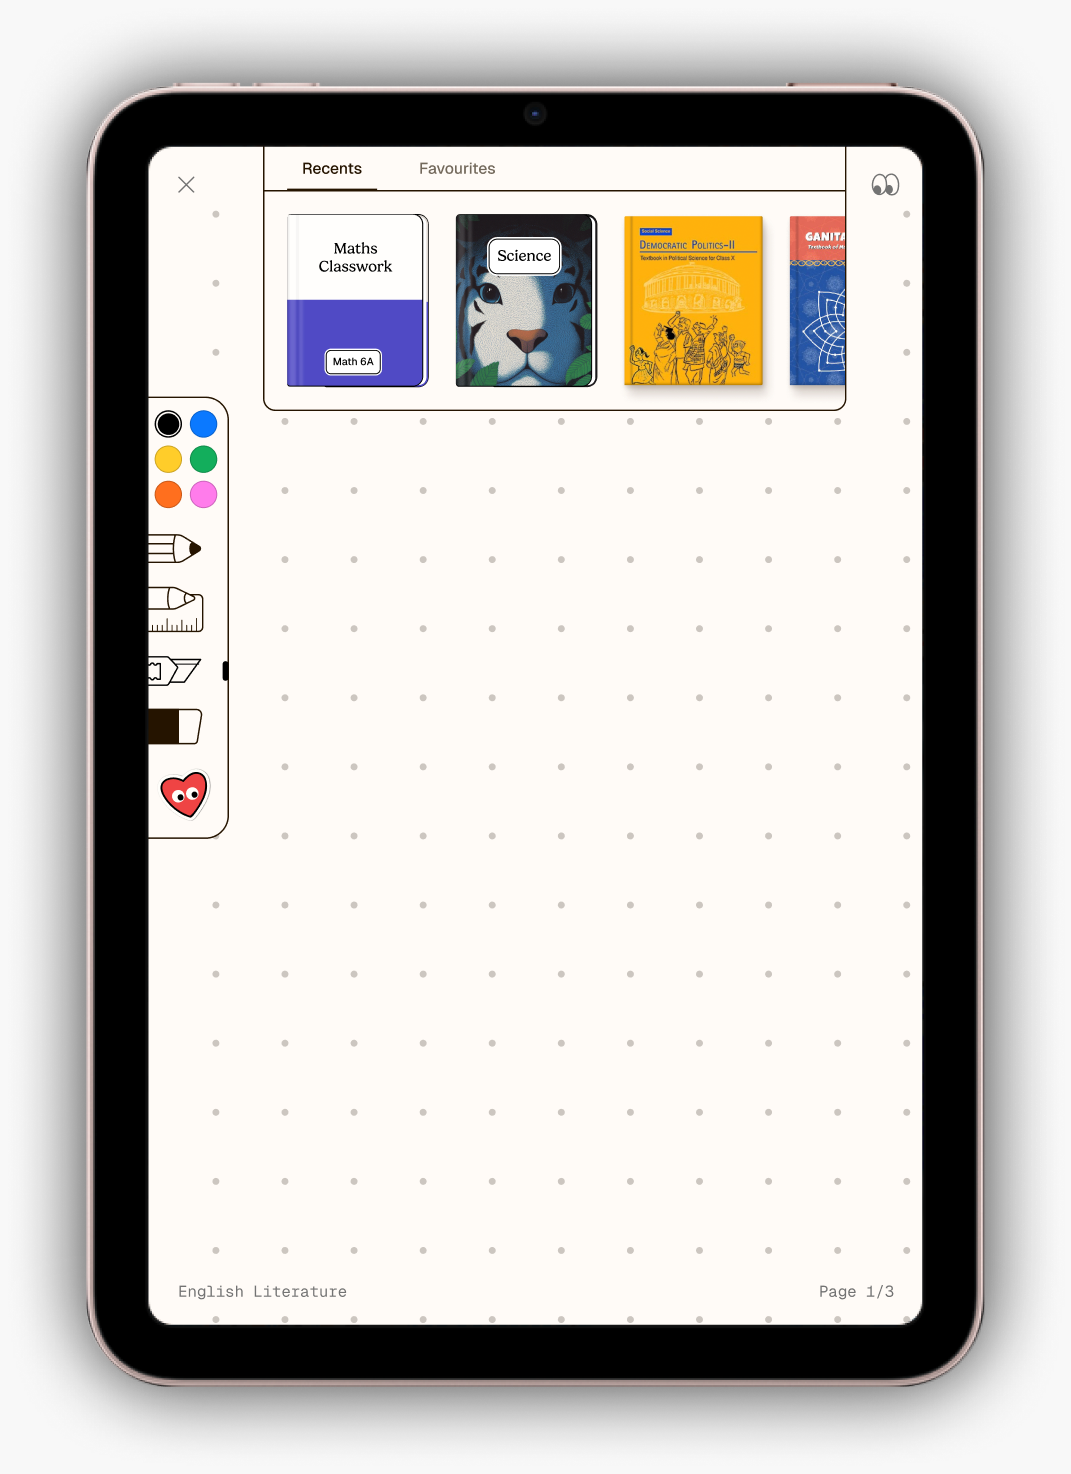
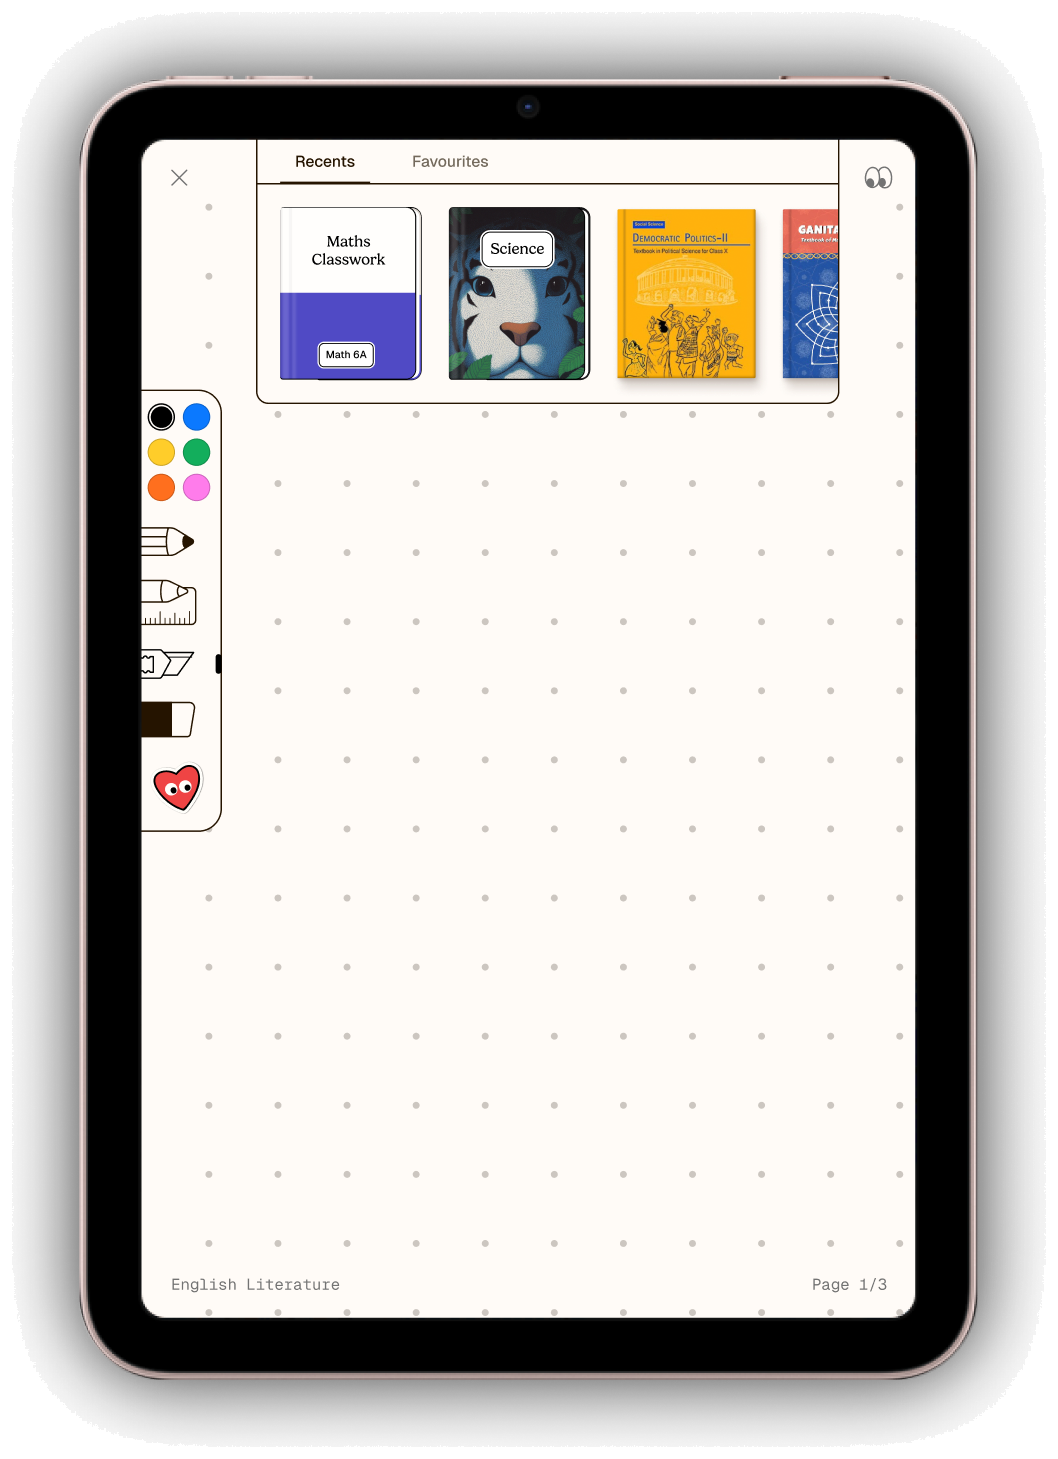
Merge exploration tabs and content into one bordered module
Wraps the iteration tabs and design/copy panel in a single container,
strips the flat grey canvas baked into the exported tablet mockups so
only the device and its shadow remain, vertically centers the Idea/Why
reasoning against the tablet, and adds an "Idea 1" eyebrow above the
entry-point question.

Changed region(s): [[0.0624, 0.0308, 0.9357, 0.9561]]

diff --git a/app/work/superrbook/page.tsx b/app/work/superrbook/page.tsx
@@ -376,8 +376,11 @@ export default function SuperrbookCaseStudy() {
 
               {/* Part 1 — Finding the right entry point */}
               <div>
-                <p className="text-[16px] font-medium mb-1" style={{ color: "var(--foreground)" }}>
+                <p className="text-[16px] font-medium mb-3" style={{ color: "var(--foreground)" }}>
                   Finding the right entry point
+                </p>
+                <p className="text-[13px] font-medium tracking-[0.06em] uppercase mb-1" style={{ color: "var(--muted)" }}>
+                  Idea 1
                 </p>
                 <p className="text-[15px] leading-relaxed mb-6" style={{ color: "var(--muted)" }}>
                   How should students open the switcher?
@@ -388,6 +391,8 @@ export default function SuperrbookCaseStudy() {
                     {
                       tabLabel: "Iteration 1",
                       image: "/context-switching-iteration-1.png",
+                      imageWidth: 1058,
+                      imageHeight: 1459,
                       alt: "Iteration 1: single pull-down swipe from top, shown on iPad",
                       title: "Single Pull down swipe from top",
                       idea: "Swipe down from the top edge to open the resource switcher.",
@@ -399,6 +404,8 @@ export default function SuperrbookCaseStudy() {
                     {
                       tabLabel: "Iteration 2",
                       image: "/context-switching-iteration-2.png",
+                      imageWidth: 1058,
+                      imageHeight: 1459,
                       alt: "Iteration 2: toolbar action, shown on iPad",
                       title: "Toolbar Action",
                       idea: "Used a dedicated switcher button in the toolbar.",
@@ -410,6 +417,8 @@ export default function SuperrbookCaseStudy() {
                     {
                       tabLabel: "Iteration 3",
                       image: "/context-switching-iteration-3.png",
+                      imageWidth: 1056,
+                      imageHeight: 1459,
                       alt: "Iteration 3: handle and pull gesture, shown on iPad",
                       title: "Handle + Pull Gesture",
                       idea: "Reveal the switcher by pulling a handle from the top edge.",

diff --git a/app/components/ExplorationTabs.tsx b/app/components/ExplorationTabs.tsx
@@ -6,6 +6,8 @@ import Image from "next/image";
 export interface ExplorationIteration {
   tabLabel: string;
   image: string;
+  imageWidth: number;
+  imageHeight: number;
   alt: string;
   title: string;
   idea: string;
@@ -24,11 +26,14 @@ export default function ExplorationTabs({
   const current = iterations[active];
 
   return (
-    <div>
+    <div
+      className="rounded-2xl p-3 md:p-4"
+      style={{ background: "var(--background)", border: "1px solid var(--border)" }}
+    >
       {/* Tab bar */}
       <div
         className="inline-flex w-full rounded-full p-1 mb-6"
-        style={{ background: "var(--hover-bg)", border: "1px solid var(--border)" }}
+        style={{ background: "var(--hover-bg)" }}
         role="tablist"
         aria-label="Exploration iterations"
       >
@@ -51,21 +56,16 @@ export default function ExplorationTabs({
       </div>
 
       {/* Content */}
-      <div
-        className="rounded-2xl p-6 md:p-8"
-        style={{ background: "var(--background)", border: "1px solid var(--border)" }}
-      >
-        <div className="grid grid-cols-1 md:grid-cols-[380px_1fr] gap-10 items-start">
-          <div className="rounded-2xl overflow-hidden" style={{ background: "var(--hover-bg)" }}>
-            <Image
-              src={current.image}
-              alt={current.alt}
-              width={1071}
-              height={1474}
-              quality={100}
-              className="w-full h-auto block"
-            />
-          </div>
+      <div className="px-2 pb-2 md:px-4 md:pb-4">
+        <div className="grid grid-cols-1 md:grid-cols-[380px_1fr] gap-10 items-center">
+          <Image
+            src={current.image}
+            alt={current.alt}
+            width={current.imageWidth}
+            height={current.imageHeight}
+            quality={100}
+            className="w-full h-auto block"
+          />
 
           <div className="flex flex-col gap-6">
             <div>
